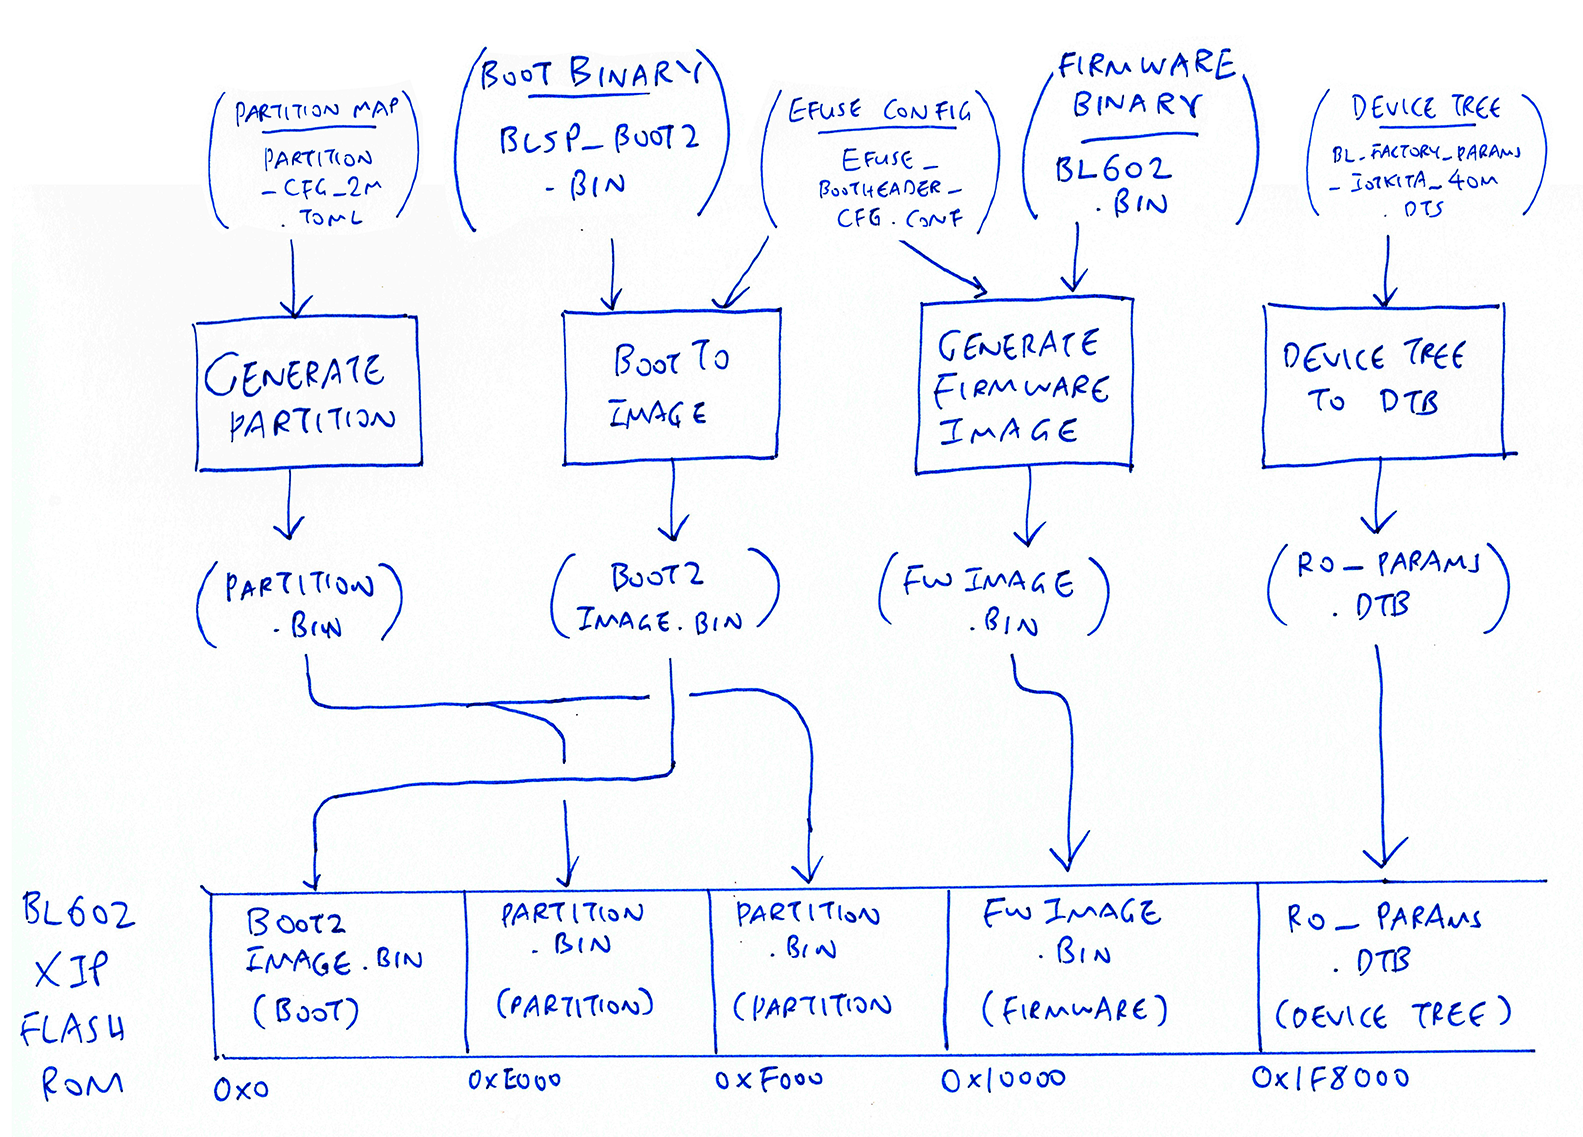
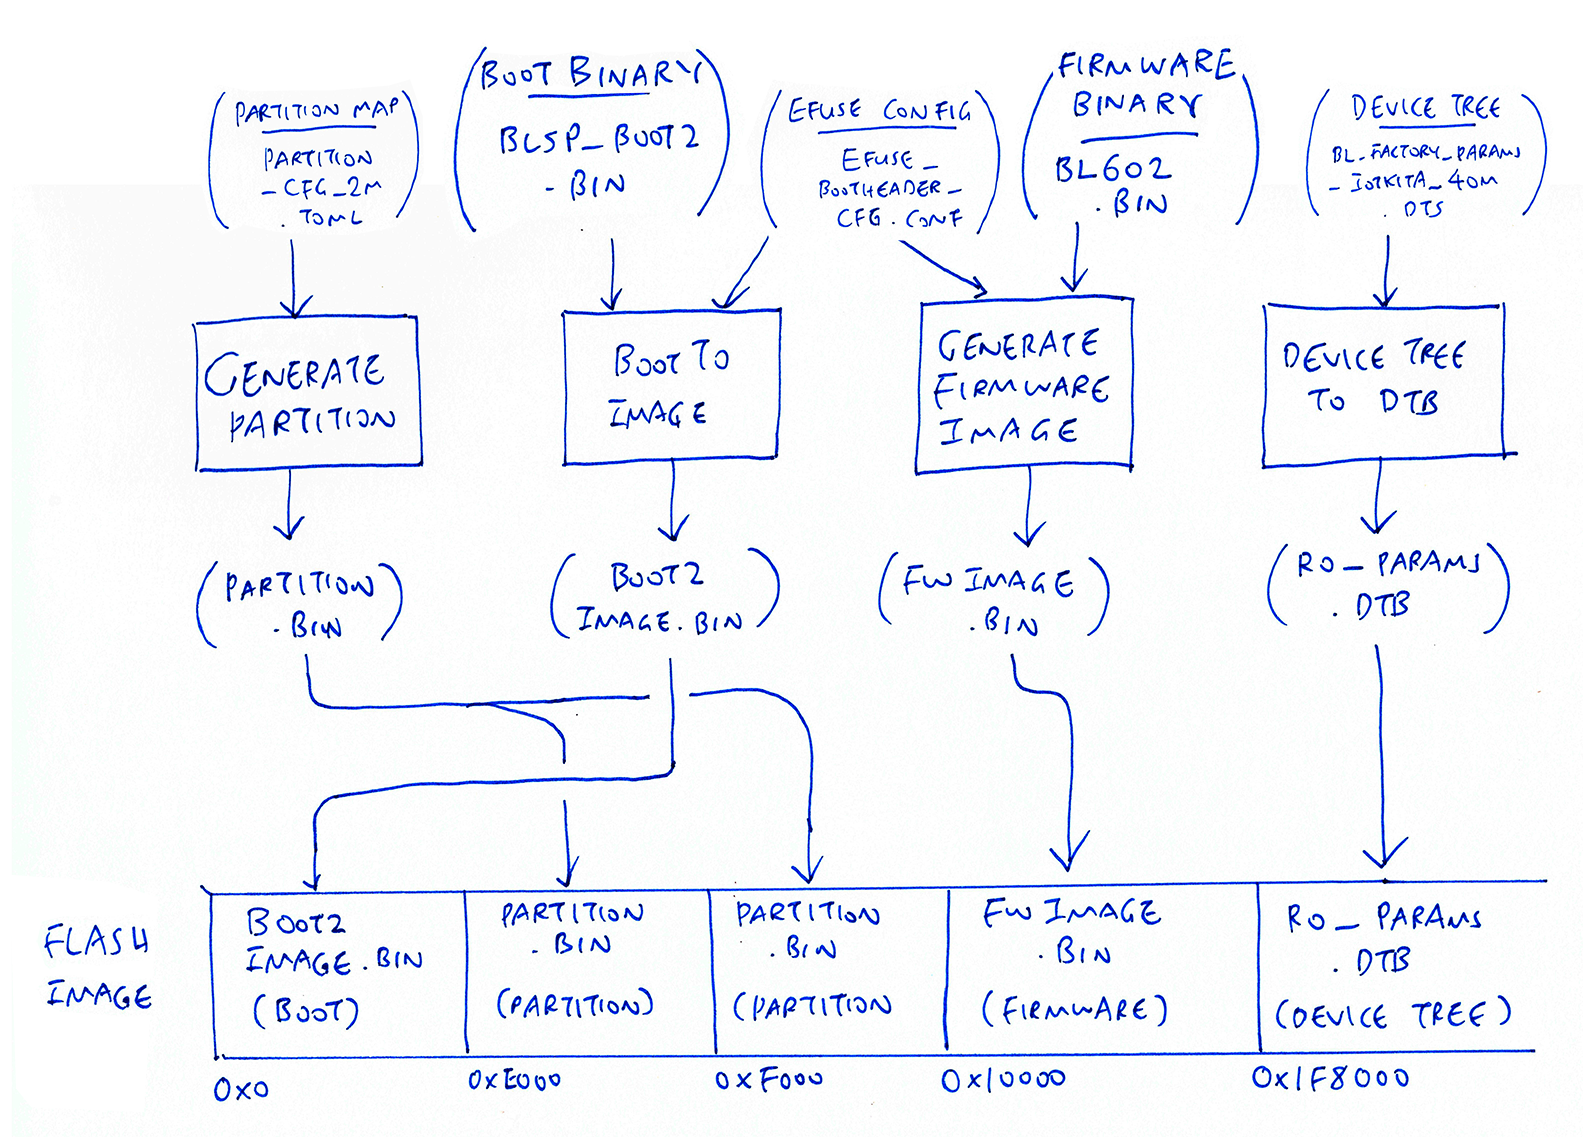
Changed ROM to flash image

diff --git a/articles/flash.html b/articles/flash.html
@@ -218,7 +218,7 @@ handshake sent elapsed 6.51343ms
 Entered eflash_loader
 </code></pre>
 <p><code>blflash</code> starts by sending the <strong>EFlash Loader</strong> program to PineCone. Then EFlash Loader starts running on PineCone.</p>
-<p>EFlash Loader receives our firmware from <code>blflash</code> and flashes our firmware to ROM...</p>
+<p>EFlash Loader receives our <strong>Flash Image</strong> from <code>blflash</code> and flashes our firmware to ROM...</p>
 <pre><code class="language-text">Erase flash addr: 0 size: 47504
 Program flash... c85e11a0083a27f72f6e1bab9b67cac98d5d31ed90b64b78e6e89e070d782c58
 Program done 836.9393ms 55.49KB/s
@@ -230,7 +230,8 @@ Program done 489.5002ms 50.36KB/s
 Skip segment addr: 1f8000 size: 5671 sha256 matches
 Success
 </code></pre>
-<p><code>blflash</code> (and EFlash Loader) has successfully erased and flashed 5 locations in BL602 ROM from offsets: <code>0x0</code>, <code>0xe000</code>, <code>0xf000</code>, <code>0x10000</code> (that's our firmware) and <code>0x1f8000</code></p>
+<p><code>blflash</code> (and EFlash Loader) has successfully erased and flashed 5 sections in BL602 ROM.</p>
+<p>The ROM sections were extracted from our Flash Image at offsets <code>0x0</code>, <code>0xe000</code>, <code>0xf000</code>, <code>0x10000</code> (that's our firmware) and <code>0x1f8000</code></p>
 <p>We'll learn more about this.</p>
 </li>
 <li>
@@ -304,8 +305,8 @@ caused by: Invalid argument
 </li>
 </ol>
 <p>These steps were tested on Arm64 Linux (Pinebook Pro with Manjaro), macOS Catalina and Windows 10.</p>
-<p><img src="https://lupyuen.github.io/images/pinecone-flash-steps.png" alt="BL602 Flashing Process Reverse-Engineered from BLOpenFlasher" /></p>
-<p><em>BL602 Flashing Process Reverse-Engineered from BLOpenFlasher</em></p>
+<p><img src="https://lupyuen.github.io/images/pinecone-flash-steps.png" alt="BL602 Flashing Process reverse engineered from BLOpenFlasher" /></p>
+<p><em>BL602 Flashing Process reverse engineered from BLOpenFlasher</em></p>
 <h1 id="what-else-can-we-flash-to-bl602" class="section-header"><a href="#what-else-can-we-flash-to-bl602">2 What Else Can We Flash To BL602?</a></h1>
 <p>So far we have only flashed our Firmware Image to PineCone. This is one of 5 interesting things that we may flash to BL602's Internal Flash ROM...</p>
 <table><thead><tr><th align="left">Offset</th><th align="left">Contents</th></tr></thead><tbody>
@@ -315,6 +316,7 @@ caused by: Invalid argument
 <tr><td align="left"><strong>Firmware Image</strong> <br> <code>0x0001 0000</code></td><td align="left">Code and data for <br> Application Firmware</td></tr>
 <tr><td align="left"><strong>Device Tree</strong> <br> <code>0x001F 8000</code></td><td align="left">Default settings for<br> peripherals and ports: <br>UART, GPIO, SPI, WiFi, ...</td></tr>
 </tbody></table>
+<p>(The addresses above are Offsets into the Flash Image that is transmitted by <code>blflash</code> to BL602 for flashing)</p>
 <p>This info was deciphered from the official open-source Go flashing tool for BL602: <strong>BLOpenFlasher</strong>...</p>
 <ul>
 <li>
@@ -335,7 +337,7 @@ caused by: Invalid argument
 <p><img src="https://lupyuen.github.io/images/pinecone-flash-steps2c.png" alt="Compiling the BL602 Partition Table" /></p>
 <p><em>Compiling the BL602 Partition Table</em></p>
 <h1 id="partition-table" class="section-header"><a href="#partition-table">3 Partition Table</a></h1>
-<p>The <strong>Partition Table</strong> says where everything is located in ROM. It's like the ROM Table above... But converted to binary format and stored into ROM (twice).</p>
+<p>The <strong>Partition Table</strong> specifies the structure of the data that will be flashed to ROM. It's like the ROM Table above... But converted to binary format and transmitted to BL602 (twice).</p>
 <p>Here's a snippet from BL602's Partition Table: <a href="https://github.com/bouffalolab/BLOpenFlasher/blob/main/bl602/partition/partition_cfg_2M.toml"><code>partition_cfg_2M.toml</code></a></p>
 <pre><code class="language-text">[pt_table]
 # Partition table is 4K in size (0x1000 bytes)
@@ -457,6 +459,7 @@ ef_dbg_pwd_high    = 0
 </ul>
 <p>(For development, we have disabled encryption in the EFuse Configuration)</p>
 <p>The transformed binary is then flashed to BL602 Flash ROM.</p>
+<p><em>(TODO: Both the Boot Image and Firmware Image are compiled to execute at XIP Flash Address <code>0x2300 0000</code>... How can two programs coexist at the same address?)</em></p>
 <p><img src="https://lupyuen.github.io/images/pinecone-flash-steps2d.png" alt="Compiling the BL602 Device Tree" /></p>
 <p><em>Compiling the BL602 Device Tree</em></p>
 <h1 id="device-tree" class="section-header"><a href="#device-tree">7 Device Tree</a></h1>
@@ -582,6 +585,7 @@ ef_dbg_pwd_high    = 0
 </code></pre>
 <p><a href="https://lupyuen.github.io/articles/flash#appendix-bl602-device-tree">More about BL602 Device Tree</a></p>
 <p><a href="https://www.kernel.org/doc/html/latest/devicetree/usage-model.html">More about Linux Device Trees</a></p>
+<p><em>(TODO: Where is the Device Tree stored in XIP Flash ROM?)</em></p>
 <h1 id="flash-firmware-in-2-stages" class="section-header"><a href="#flash-firmware-in-2-stages">8 Flash Firmware in 2 Stages</a></h1>
 <p>Earlier we saw that our firmware is flashed to BL602 in two stages... (Just like the Falcon Rocket)</p>
 <ol>
@@ -605,7 +609,7 @@ ef_dbg_pwd_high    = 0
 <p>(&quot;<code>40m</code>&quot; refers to the BL602 Clock Speed: 40 MHz)</p>
 <p>Then we start running the EFlash Loader on BL602 in RAM at address <a href="https://github.com/lupyuen/bl_iot_sdk/blob/master/tools/flash_tool/bl602/eflash_loader/eflash_loader.map#L7439"><code>0x2201 0000</code></a></p>
 <h2 id="flashing-stage-2" class="section-header"><a href="#flashing-stage-2">8.2 Flashing Stage 2</a></h2>
-<p>Next we transmit 5 chunks of data to EFlash Loader, which writes them to BL602 ROM...</p>
+<p>Next we compose the <strong>Flash Image</strong> that contains 5 sections of data to be flashed...</p>
 <table><thead><tr><th align="left">Offset</th><th align="left">Contents</th></tr></thead><tbody>
 <tr><td align="left"><code>0x0000 0000</code></td><td align="left"><strong>Boot Image</strong> <br>(transformed)</td></tr>
 <tr><td align="left"><code>0x0000 E000</code></td><td align="left"><strong>Partition Table</strong> <br>(binary format)</td></tr>
@@ -613,6 +617,7 @@ ef_dbg_pwd_high    = 0
 <tr><td align="left"><code>0x0001 0000</code></td><td align="left"><strong>Firmware Image</strong> <br>(transformed)</td></tr>
 <tr><td align="left"><code>0x001F 8000</code></td><td align="left"><strong>Device Tree</strong> <br>(binary format)</td></tr>
 </tbody></table>
+<p>Then we transmit the Flash Image to EFlash Loader, which writes them to BL602 ROM.</p>
 <p>The data is transmitted at <strong>2 Mbps</strong>. (Instead of 512 kbps earlier)</p>
 <p>EFlash Loader must acknowledge the data transfer within 5 seconds. Or the flashing shall be considered failed.</p>
 <p>(Where is the source code for the EFlash Loader: <a href="https://github.com/lupyuen/bl_iot_sdk/blob/master/tools/flash_tool/bl602/eflash_loader/eflash_loader.map#L7460"><code>bflb_eflash_loader_cmds</code></a>? 🤔)</p>

diff --git a/src/flash.md b/src/flash.md
@@ -147,7 +147,7 @@ _Flashing PineCone with Manjaro Linux Arm64 on Pinebook Pro_
 
     `blflash` starts by sending the __EFlash Loader__ program to PineCone. Then EFlash Loader starts running on PineCone.
     
-    EFlash Loader receives our firmware from `blflash` and flashes our firmware to ROM...
+    EFlash Loader receives our __Flash Image__ from `blflash` and flashes our firmware to ROM...
 
     ```text
     Erase flash addr: 0 size: 47504
@@ -162,7 +162,9 @@ _Flashing PineCone with Manjaro Linux Arm64 on Pinebook Pro_
     Success
     ```
 
-    `blflash` (and EFlash Loader) has successfully erased and flashed 5 locations in BL602 ROM from offsets: `0x0`, `0xe000`, `0xf000`, `0x10000` (that's our firmware) and `0x1f8000`
+    `blflash` (and EFlash Loader) has successfully erased and flashed 5 sections in BL602 ROM.
+    
+    The ROM sections were extracted from our Flash Image at offsets `0x0`, `0xe000`, `0xf000`, `0x10000` (that's our firmware) and `0x1f8000`
     
     We'll learn more about this.
 
@@ -264,9 +266,9 @@ _Firmware running on PineCone_
 
 These steps were tested on Arm64 Linux (Pinebook Pro with Manjaro), macOS Catalina and Windows 10.
 
-![BL602 Flashing Process Reverse-Engineered from BLOpenFlasher](https://lupyuen.github.io/images/pinecone-flash-steps.png)
+![BL602 Flashing Process reverse engineered from BLOpenFlasher](https://lupyuen.github.io/images/pinecone-flash-steps.png)
 
-_BL602 Flashing Process Reverse-Engineered from BLOpenFlasher_
+_BL602 Flashing Process reverse engineered from BLOpenFlasher_
 
 # What Else Can We Flash To BL602?
 
@@ -279,6 +281,8 @@ So far we have only flashed our Firmware Image to PineCone. This is one of 5 int
 | __Partition Table__ <br> `0x0000 F000` | Partition Table for <br> Flash ROM <br>(For second core?)
 | __Firmware Image__ <br> `0x0001 0000`	 | Code and data for <br> Application Firmware
 | __Device Tree__ <br> `0x001F 8000`     | Default settings for<br> peripherals and ports: <br>UART, GPIO, SPI, WiFi, ...
+
+(The addresses above are Offsets into the Flash Image that is transmitted by `blflash` to BL602 for flashing)
 
 This info was deciphered from the official open-source Go flashing tool for BL602: __BLOpenFlasher__...
 
@@ -659,7 +663,7 @@ Then we start running the EFlash Loader on BL602 in RAM at address [`0x2201 0000
 
 ## Flashing Stage 2
 
-Next we transmit 5 chunks of data to EFlash Loader, which writes them to BL602 ROM...
+Next we compose the __Flash Image__ that contains 5 sections of data to be flashed...
 
 | Offset | Contents |
 |:---|:---|
@@ -668,6 +672,8 @@ Next we transmit 5 chunks of data to EFlash Loader, which writes them to BL602 R
 | `0x0000 F000` | __Partition Table__ <br>(binary format)
 | `0x0001 0000`	| __Firmware Image__ <br>(transformed)
 | `0x001F 8000` | __Device Tree__ <br>(binary format)
+
+Then we transmit the Flash Image to EFlash Loader, which writes them to BL602 ROM.
 
 The data is transmitted at __2 Mbps__. (Instead of 512 kbps earlier)
 
